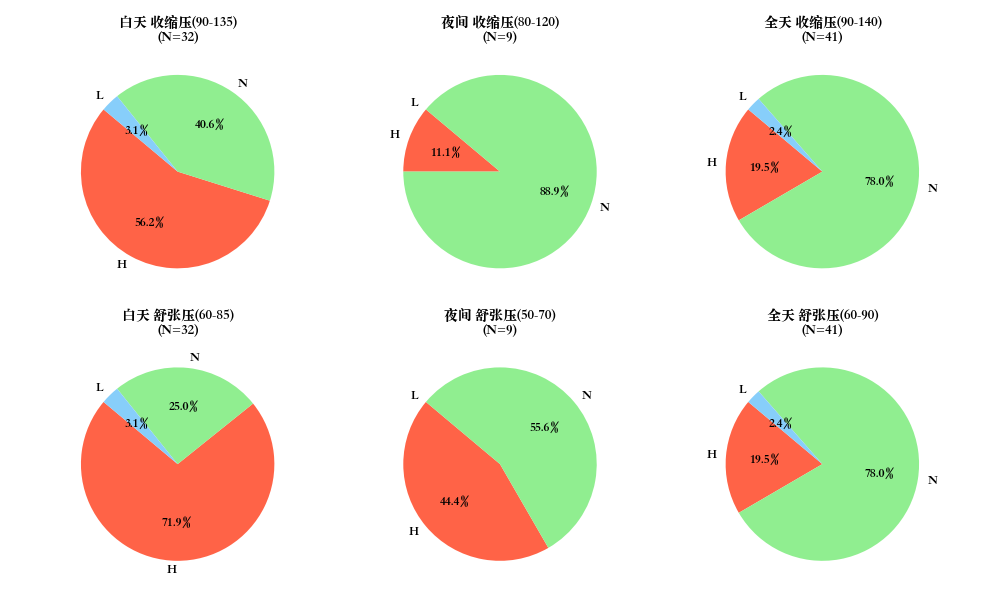
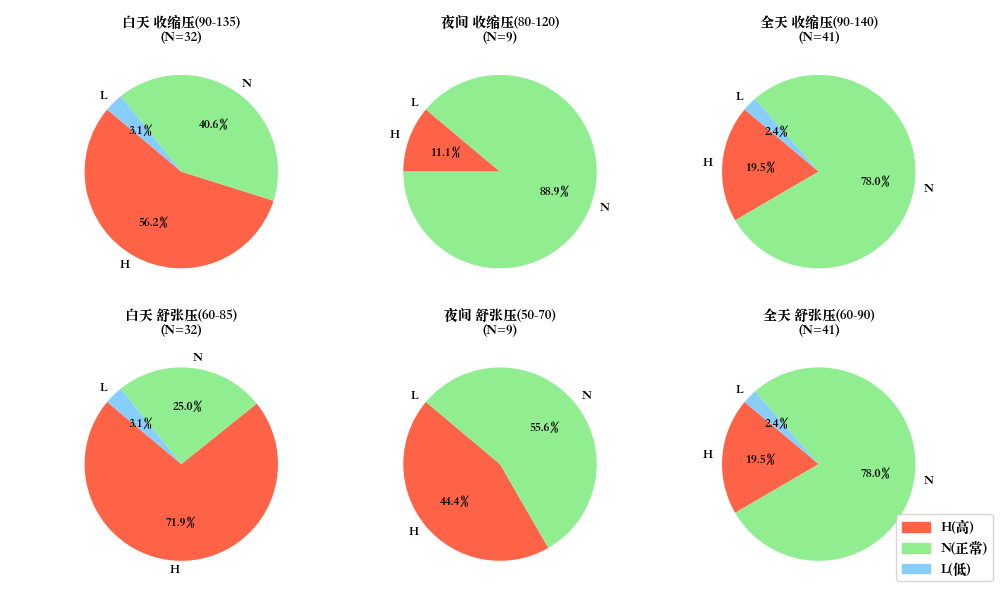
在饼图右下角添加图例说明，避免与饼图重叠

diff --git a/24h.py b/24h.py
@@ -297,7 +297,7 @@ def calc_extra_indices(day_stats, night_stats, full_df,
 
     return result
 
-# ========== 新增函数：根据自定义的日/夜/全天正常范围，绘制六个饼图(H/N/L) ==========
+# ========== 这里是修改的重点：在饼图右下角添加一份图例说明，避免与饼图重叠 ==========
 def plot_bp_six_pies(day_df, night_df, full_df, output_file="result/bp_6_pies.png"):
     """
     参考示例图片的布局，绘制6个饼图：
@@ -306,6 +306,8 @@ def plot_bp_six_pies(day_df, night_df, full_df, output_file="result/bp_6_pies.pn
 
     每个饼图分为 高(H)/正常(N)/低(L) 三个区块。
     output_file: 保存的图片文件名
+
+    在绘图后，会在图的底部(右下角)添加一个图例，标示这三种颜色的含义。
     """
 
     # 如果没有 result 文件夹，则创建
@@ -369,6 +371,24 @@ def plot_bp_six_pies(day_df, night_df, full_df, output_file="result/bp_6_pies.pn
             text.set_fontsize(9)
         for autot in autotexts:
             autot.set_fontsize(9)
+
+    # ------- 新增：在右下角添加图例，避免与6个饼图重叠 -------
+    from matplotlib.patches import Patch
+    legend_patches = [
+        Patch(color="tomato",      label="H(高)"),
+        Patch(color="lightgreen",  label="N(正常)"),
+        Patch(color="lightskyblue",label="L(低)")
+    ]
+    # 调整子图与图例的布局，避免重叠或被裁剪
+    plt.subplots_adjust(bottom=0.15)
+    # loc='lower right'：图例在整张图的右下角
+    # bbox_to_anchor=(1, 0)：再精细微调，以免和坐标轴贴得太近
+    fig.legend(
+        handles=legend_patches,
+        loc='lower right',
+        bbox_to_anchor=(1, 0.02)  # 你可根据实际效果微调
+    )
+    # --------------------------------------------------
 
     plt.tight_layout()
     plt.savefig(output_file, dpi=100)
@@ -597,7 +617,7 @@ def generate_pdf_report(day_stats, night_stats, full_stats, extra_indices,
     detail_table = Table(detail_data, colWidths=[40, 70, 60, 60, 60, 60, 40, 60])
     detail_style = TableStyle([
         ('GRID', (0, 0), (-1, -1), 0.5, colors.black),
-        ('BACKGROUND', (0, 0), ( -1, 0), colors.lightgrey),
+        ('BACKGROUND', (0, 0), (-1, 0), colors.lightgrey),
         ('ALIGN', (0, 0), (-1, -1), 'CENTER'),
         ('FONTNAME', (0, 0), (-1, -1), 'SimSun'),
     ])
